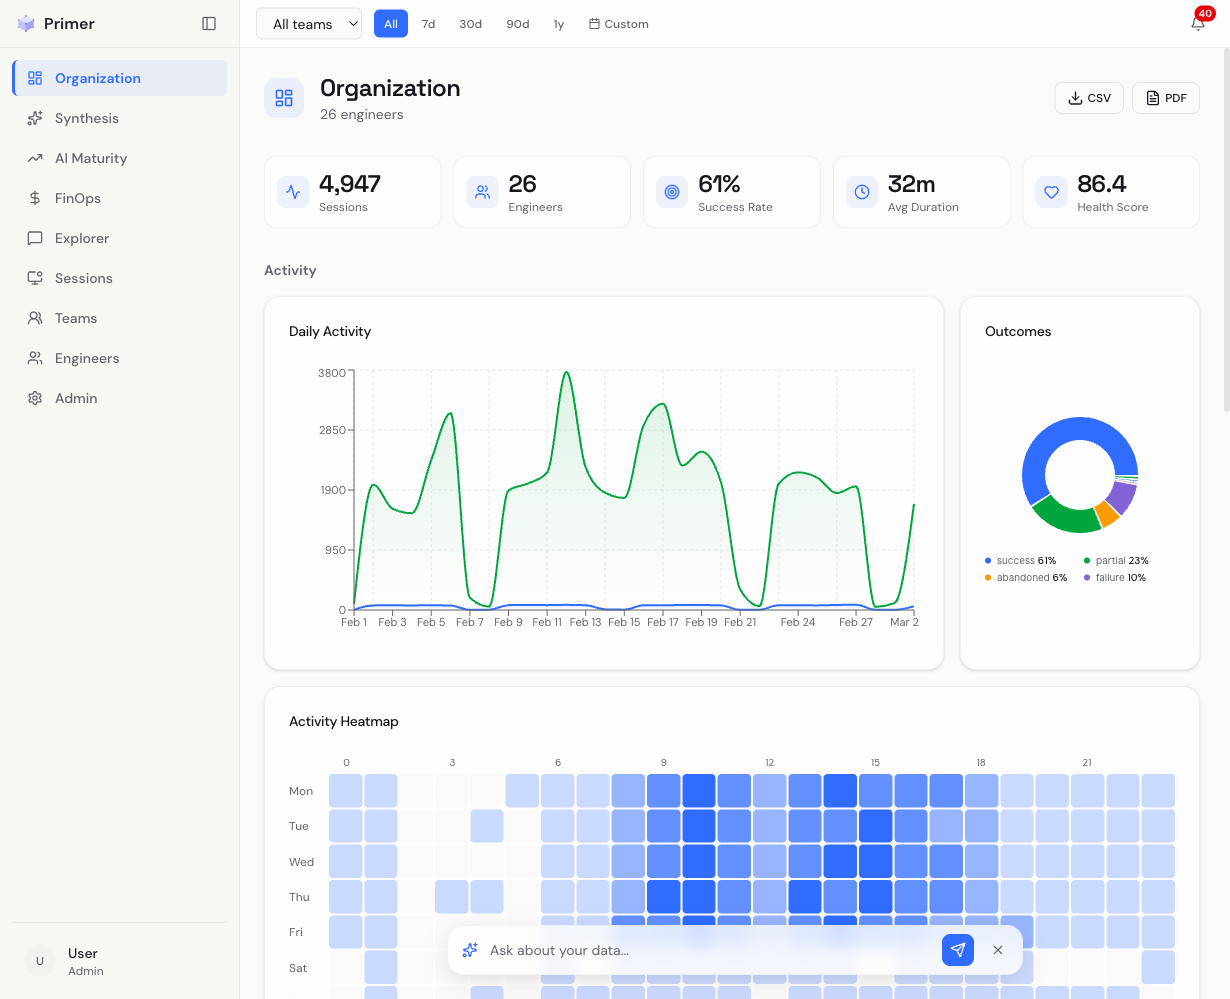
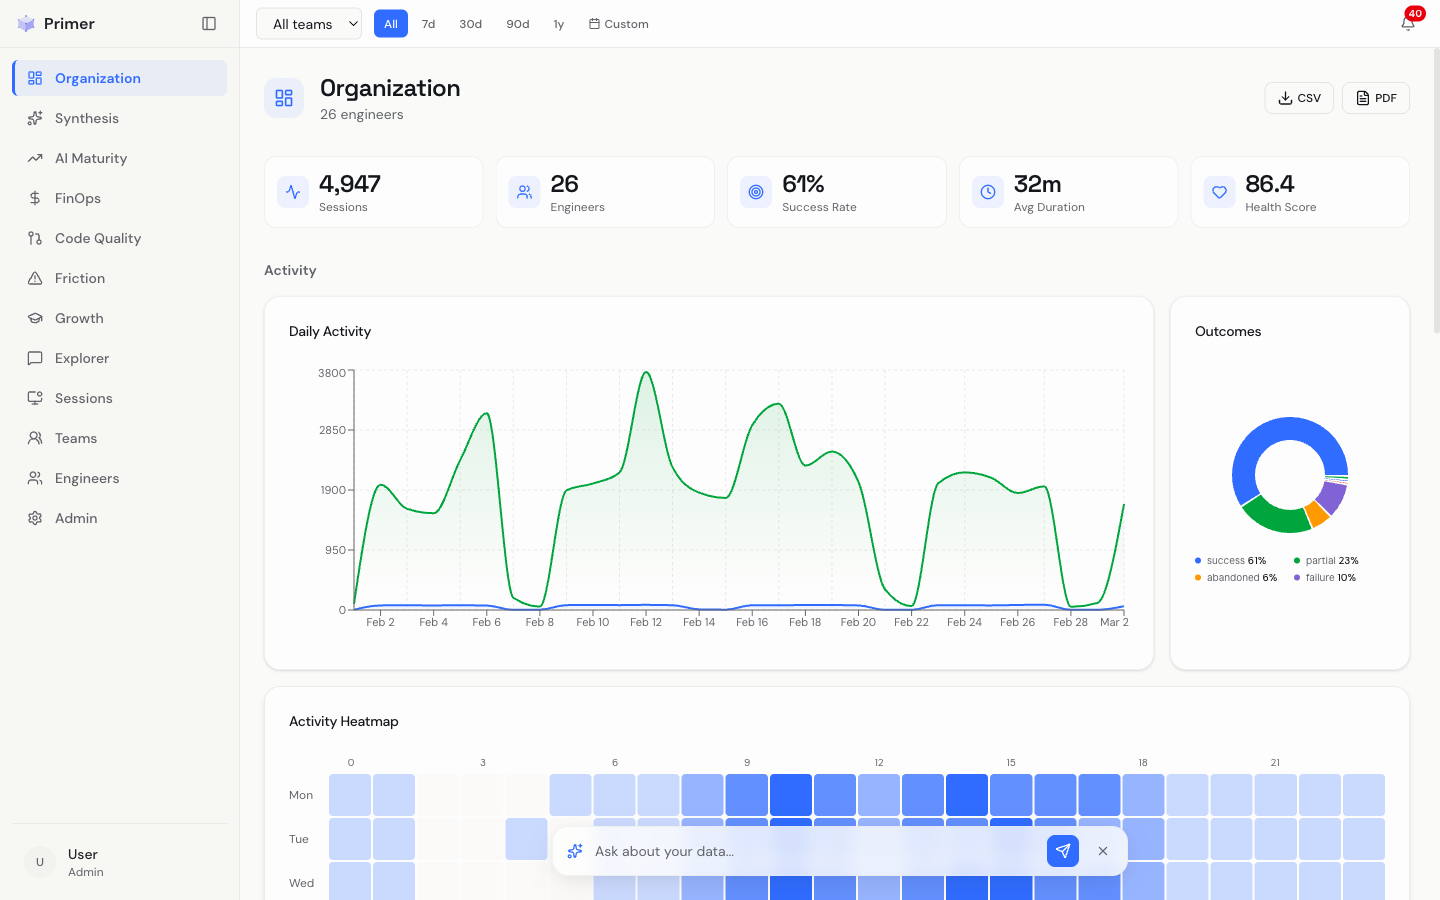
chore: release audit fixes for v0.2.0
Critical:
- Fix package name: primer-io → primer in README, website, docs,
  blog posts, and terminal animation (6 files)
- Fix CONTRIBUTING.md: branch from main, not develop

Documentation:
- Fix rate limit default in configuration.mdx (120 → 300/minute)
- Add "Where to Find These Insights" section to insights.mdx listing
  all 10 dedicated pages with their routes and key questions
- Add friction, quality, and growth pages to website screenshot gallery

Screenshots:
- Refresh dashboard screenshots (dark + light) with final layout
- Add new page screenshots: friction, quality, growth

Version: bump to 0.2.0

diff --git a/website/src/components/TerminalAnimation.tsx b/website/src/components/TerminalAnimation.tsx
@@ -1,7 +1,7 @@
 import { useState, useEffect, useRef } from "react";
 
 const LINES = [
-  { text: "$ pip install primer-io", delay: 0 },
+  { text: "$ pip install primer", delay: 0 },
   { text: "  Installing Primer...", delay: 1200 },
   { text: "  \u2713 Server ready at http://localhost:8000", delay: 2200 },
   { text: "  \u2713 Hook installed for Claude Code", delay: 2800 },

diff --git a/README.md b/README.md
@@ -109,7 +109,7 @@ curl -fsSL https://ccf.github.io/primer/install.sh | sh
 **Or install manually:**
 
 ```bash
-pip install primer-io            # Install
+pip install primer            # Install
 primer init                      # Initialize database and config
 primer server start              # Start API + dashboard
 primer hook install              # Register the SessionEnd hook

diff --git a/CONTRIBUTING.md b/CONTRIBUTING.md
@@ -137,7 +137,7 @@ def test_create_team(client, admin_headers):
 
 ## PR Process
 
-1. Branch from `develop` (or `main` if no develop branch exists)
+1. Branch from `main`
 2. Make your changes following the coding standards above
 3. Add or update tests for any new functionality
 4. Ensure all checks pass:
